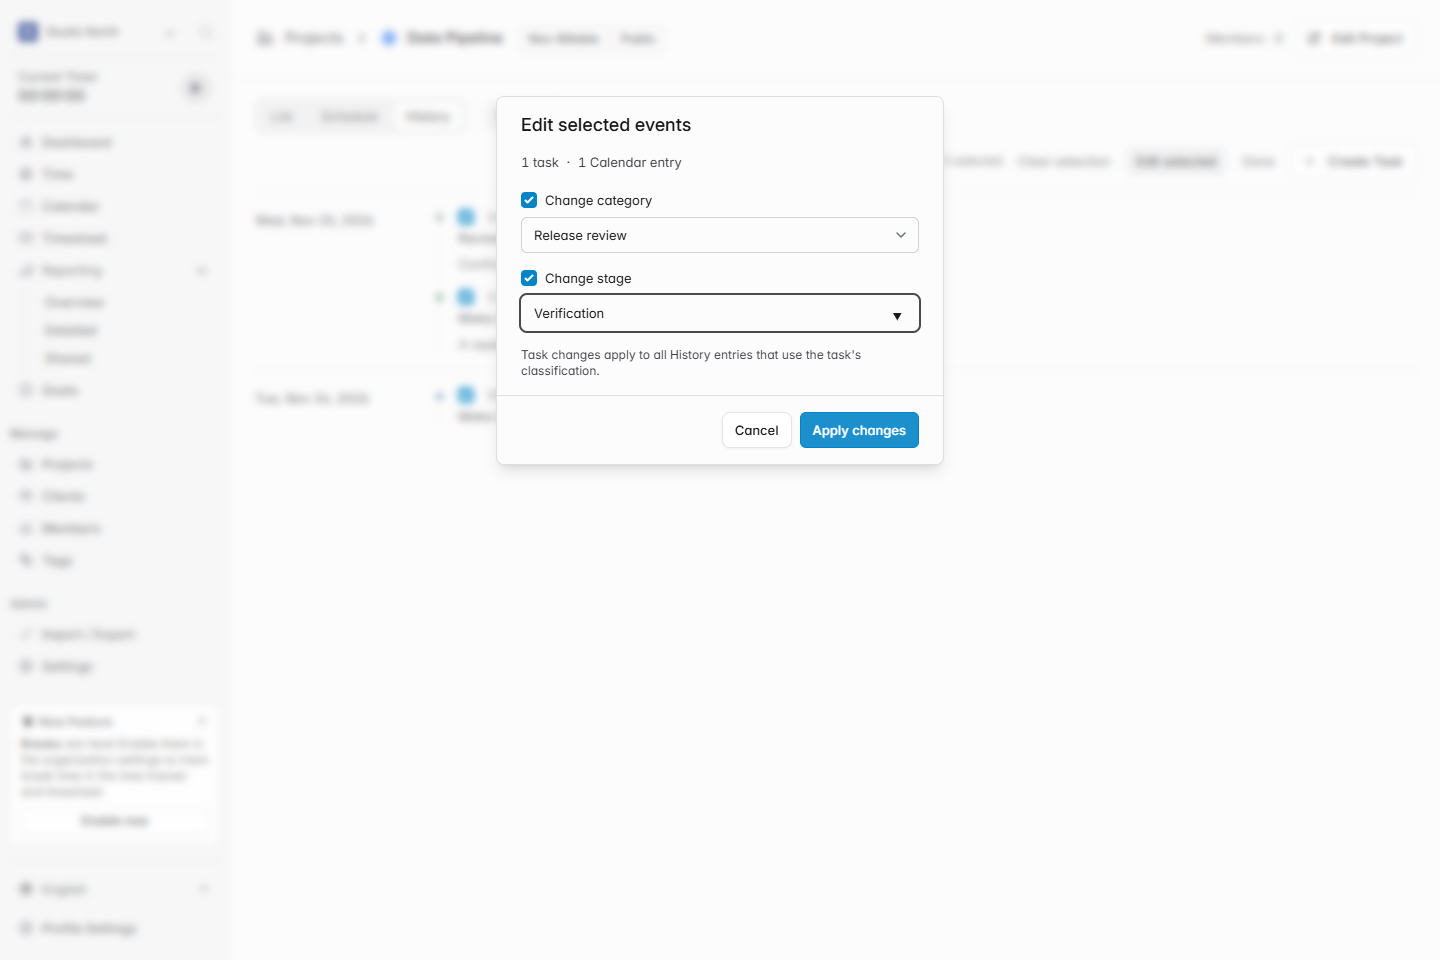
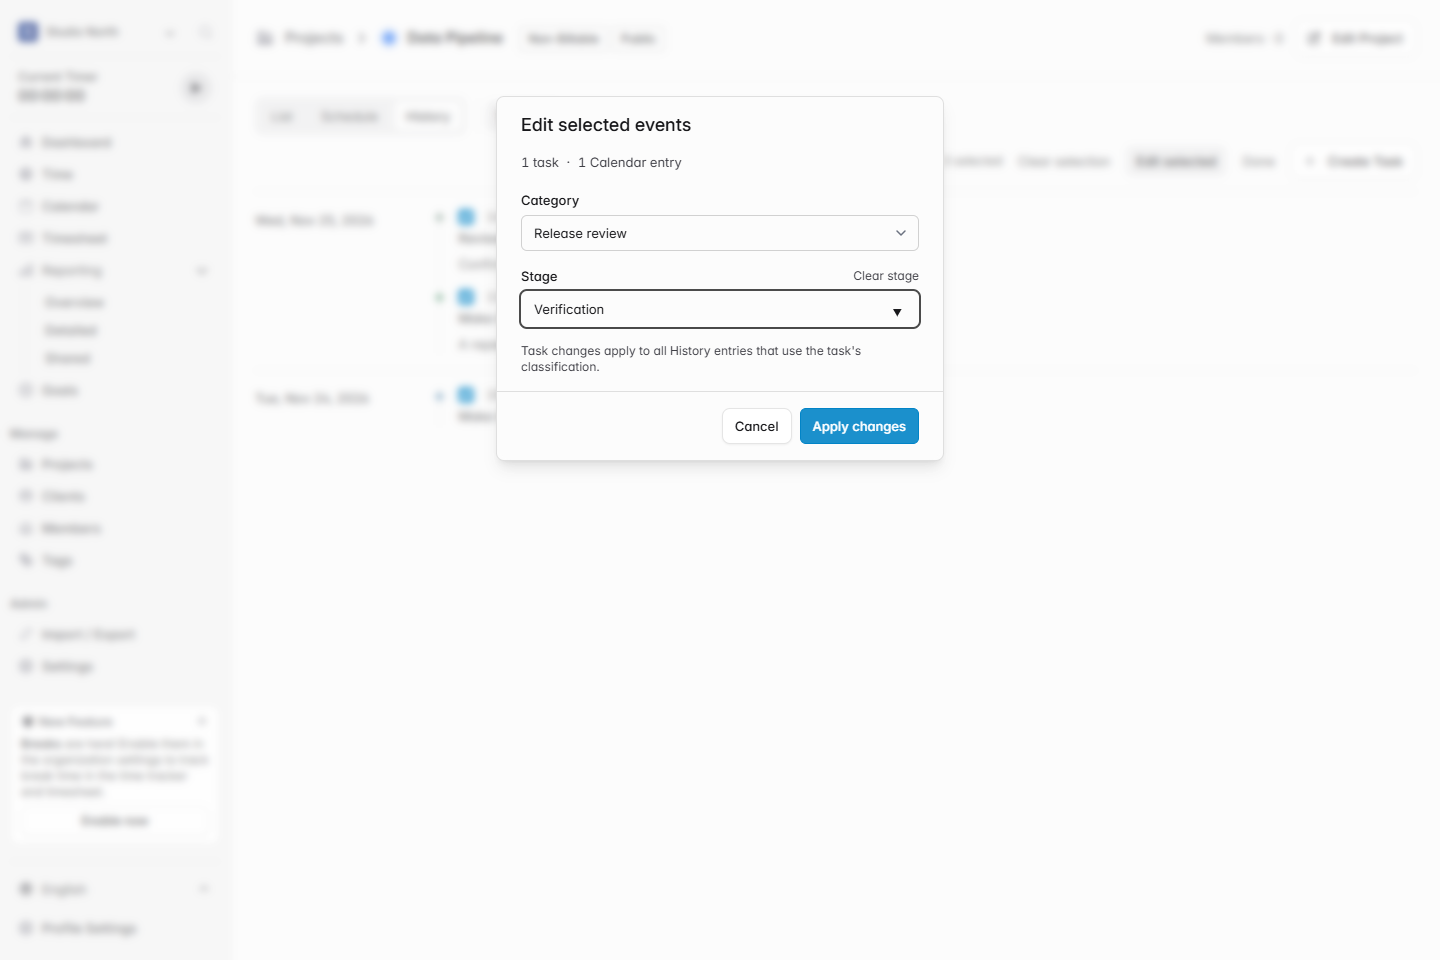
Refresh History editing and task link screenshots

Changed region(s): [[0.3438, 0.2812, 0.6562, 0.4062], [0.5, 0.4062, 0.6562, 0.4688], [0.3438, 0.1875, 0.4375, 0.25]]

diff --git a/README.md b/README.md
@@ -7,7 +7,7 @@ When work spans projects, a task can link to related work during creation or lat
 ## What changes
 
 - Choose **Select events**, select individual rows or all visible editable rows, and open **Edit selected**.
-- Set or clear **Category** and **Stage** independently. Rows show their classification, and both fields can be used to filter the timeline.
+- Set or clear **Category** and **Stage** independently. Each field keeps its current value until changed. Rows show their classification, and both fields can be used to filter the timeline.
 - Task events share the task's classification. A Calendar entry can store its own classification whether it is linked to a task or stands alone.
 - The server saves the batch in one transaction and checks that each entry belongs to the project and can be edited by the current user.
 - The **Create Task** dialog offers an optional **Link task** section. A task and its initial link are saved together.
